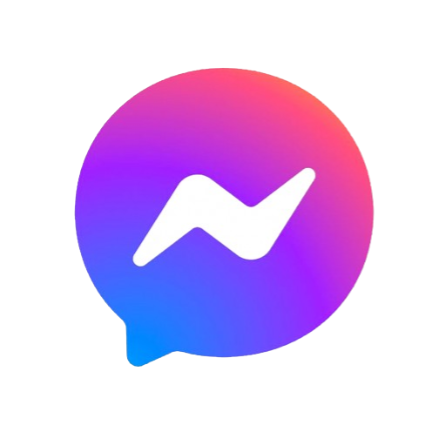
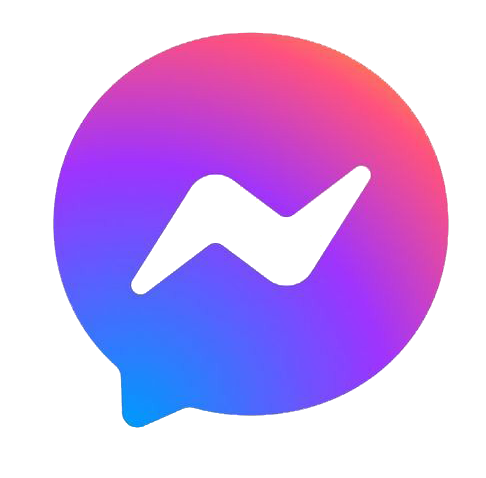
fixes

diff --git a/z-assets/css/z-assets.css b/z-assets/css/z-assets.css
@@ -1587,116 +1587,7 @@ header {
 /* Sticky button */
 
 
-.call-buton .cc-calto-action-ripple {
-	z-index: 99999;
-	position: fixed;
-	right: 1rem;
-	bottom: 8rem;
-	background: #ec8b00;
-	width: 4rem;
-	height: 4rem;
-	padding: 1rem;
-	border-radius: 100%;
-	-webkit-box-sizing: border-box;
-	box-sizing: border-box;
-	color: #ffffff;
-	-webkit-animation: cc-calto-action-ripple 0.6s linear infinite;
-	animation: cc-calto-action-ripple 0.6s linear infinite;
-	display: -webkit-box;
-	display: -webkit-flex;
-	display: -ms-flexbox;
-	display: flex;
-	justify-items: center;
-	-webkit-box-align: center;
-	-webkit-align-items: center;
-	-ms-flex-align: center;
-	align-items: center;
-	text-decoration: none; }
-	.call-buton .cc-calto-action-ripple i {
-	  -webkit-transition: 0.3s ease;
-	  transition: 0.3s ease;
-	  font-size: 2.2rem; }
-	.call-buton .cc-calto-action-ripple:hover i {
-	  -webkit-transform: rotate(135deg);
-	  transform: rotate(135deg); }
-  
-  @-webkit-keyframes cc-calto-action-ripple {
-	0% {
-	  -webkit-box-shadow: 0 4px 10px rgba(236, 139, 0, 0.2), 0 0 0 0 rgba(236, 139, 0, 0.2), 0 0 0 5px rgba(236, 139, 0, 0.2), 0 0 0 10px rgba(236, 139, 0, 0.2);
-	  box-shadow: 0 4px 10px rgba(236, 139, 0, 0.2), 0 0 0 0 rgba(236, 139, 0, 0.2), 0 0 0 5px rgba(236, 139, 0, 0.2), 0 0 0 10px rgba(236, 139, 0, 0.2); }
-	100% {
-	  -webkit-box-shadow: 0 4px 10px rgba(236, 139, 0, 0.2), 0 0 0 5px rgba(236, 139, 0, 0.2), 0 0 0 10px rgba(236, 139, 0, 0.2), 0 0 0 20px rgba(236, 139, 0, 0);
-	  box-shadow: 0 4px 10px rgba(236, 139, 0, 0.2), 0 0 0 5px rgba(236, 139, 0, 0.2), 0 0 0 10px rgba(236, 139, 0, 0.2), 0 0 0 20px rgba(236, 139, 0, 0); } }
-  
-  @keyframes cc-calto-action-ripple {
-	0% {
-	  -webkit-box-shadow: 0 4px 10px rgba(236, 139, 0, 0.2), 0 0 0 0 rgba(236, 139, 0, 0.2), 0 0 0 5px rgba(236, 139, 0, 0.2), 0 0 0 10px rgba(236, 139, 0, 0.2);
-	  box-shadow: 0 4px 10px rgba(236, 139, 0, 0.2), 0 0 0 0 rgba(236, 139, 0, 0.2), 0 0 0 5px rgba(236, 139, 0, 0.2), 0 0 0 10px rgba(236, 139, 0, 0.2); }
-	100% {
-	  -webkit-box-shadow: 0 4px 10px rgba(236, 139, 0, 0.2), 0 0 0 5px rgba(236, 139, 0, 0.2), 0 0 0 10px rgba(236, 139, 0, 0.2), 0 0 0 20px rgba(236, 139, 0, 0);
-	  box-shadow: 0 4px 10px rgba(236, 139, 0, 0.2), 0 0 0 5px rgba(236, 139, 0, 0.2), 0 0 0 10px rgba(236, 139, 0, 0.2), 0 0 0 20px rgba(236, 139, 0, 0); } }
 
-	span.num{
-		position: absolute;
-    color: #ec8b00;
-    left: -30%;
-    bottom: -50%;
-	}
-.call-buton .cc-calto-action-ripples {
-	z-index: 99999;
-	position: fixed;
-	right: 1rem;
-	bottom: 14rem;
-	background: blue;
-	width: 4rem;
-	height: 4rem;
-	padding: 1rem;
-	border-radius: 100%;
-	-webkit-box-sizing: border-box;
-	box-sizing: border-box;
-	color: #ffffff;
-	-webkit-animation: cc-calto-action-ripple 0.6s linear infinite;
-	animation: cc-calto-action-ripple 0.6s linear infinite;
-	display: -webkit-box;
-	display: -webkit-flex;
-	display: -ms-flexbox;
-	display: flex;
-	justify-items: center;
-	-webkit-box-align: center;
-	-webkit-align-items: center;
-	-ms-flex-align: center;
-	align-items: center;
-	text-decoration: none; }
-	.call-buton .cc-calto-action-ripples i {
-	  -webkit-transition: 0.3s ease;
-	  transition: 0.3s ease;
-	  font-size: 2.2rem; }
-	.call-buton .cc-calto-action-ripples:hover i {
-	  -webkit-transform: rotate(135deg);
-	  transform: rotate(135deg); }
-  
-  @-webkit-keyframes cc-calto-action-ripple {
-	0% {
-	  -webkit-box-shadow: 0 4px 10px rgba(236, 139, 0, 0.2), 0 0 0 0 rgba(236, 139, 0, 0.2), 0 0 0 5px rgba(236, 139, 0, 0.2), 0 0 0 10px rgba(236, 139, 0, 0.2);
-	  box-shadow: 0 4px 10px rgba(236, 139, 0, 0.2), 0 0 0 0 rgba(236, 139, 0, 0.2), 0 0 0 5px rgba(236, 139, 0, 0.2), 0 0 0 10px rgba(236, 139, 0, 0.2); }
-	100% {
-	  -webkit-box-shadow: 0 4px 10px rgba(236, 139, 0, 0.2), 0 0 0 5px rgba(236, 139, 0, 0.2), 0 0 0 10px rgba(236, 139, 0, 0.2), 0 0 0 20px rgba(236, 139, 0, 0);
-	  box-shadow: 0 4px 10px rgba(236, 139, 0, 0.2), 0 0 0 5px rgba(236, 139, 0, 0.2), 0 0 0 10px rgba(236, 139, 0, 0.2), 0 0 0 20px rgba(236, 139, 0, 0); } }
-  
-  @keyframes cc-calto-action-ripple {
-	0% {
-	  -webkit-box-shadow: 0 4px 10px rgba(236, 139, 0, 0.2), 0 0 0 0 rgba(236, 139, 0, 0.2), 0 0 0 5px rgba(236, 139, 0, 0.2), 0 0 0 10px rgba(236, 139, 0, 0.2);
-	  box-shadow: 0 4px 10px rgba(236, 139, 0, 0.2), 0 0 0 0 rgba(236, 139, 0, 0.2), 0 0 0 5px rgba(236, 139, 0, 0.2), 0 0 0 10px rgba(236, 139, 0, 0.2); }
-	100% {
-	  -webkit-box-shadow: 0 4px 10px rgba(236, 139, 0, 0.2), 0 0 0 5px rgba(236, 139, 0, 0.2), 0 0 0 10px rgba(236, 139, 0, 0.2), 0 0 0 20px rgba(236, 139, 0, 0);
-	  box-shadow: 0 4px 10px rgba(236, 139, 0, 0.2), 0 0 0 5px rgba(236, 139, 0, 0.2), 0 0 0 10px rgba(236, 139, 0, 0.2), 0 0 0 20px rgba(236, 139, 0, 0); } }
-
-	span.num{
-		position: absolute;
-    color: #ec8b00;
-    left: -30%;
-    bottom: -50%;
-	}
 
 
 

diff --git a/index.html b/index.html
@@ -380,25 +380,18 @@
     </div>
   </section>
 
-  <!-- <section class="call-buton">
-    <a class="cc-calto-action-ripple" href="tel:9999999"><i class="fa fa-phone"></i><span
-        class="num">Whatsapp</span>
-    </a>
-    <a class="cc-calto-action-ripples" href="tel:9999999"><i class="fa fa-phone"></i><span
-        class="num">telegram</span>
-    </a>
-  </section> -->
 
-  <ul class="sticky_contact" style="position: fixed; bottom: 20px ; right: 10px; list-style: none;display: none;"> 
+
+  <ul class="sticky_contact" style="position: fixed; bottom: 20px ; right: 10px; list-style: none;display: none;">
     <a href="https://t.me/Patriots_sweep">
 
-      <li style="margin-bottom: 15px;"><img src="images/telegram.png" alt=""  style="height: 100px; width: 100px; "></li>
+      <li style="margin-bottom: 15px;"><img src="images/telegram (1).png" alt=""  ></li>
     </a>
     <a href="">
-      <li><img src="images/whatasapp.png" alt=""  style="height: 100px; width: 100px;"></li>
+      <li><img src="images/whatasapp (1).png" alt="" ></li>
     </a>
     <a href="">
-      <li><img src="images/messenger.png" alt=""  style="height: 120px; width: 120px;"></li>
+      <li><img src="images/messenger (1).png" alt="" ></li>
     </a>
   </ul>
 
@@ -551,7 +544,7 @@
       })
     }
   </script>
-  
+
 
 
 
@@ -597,9 +590,9 @@
   <script src="z-assets/js/script.js"></script>
 
   <script>
-   setTimeout(() => {
+    setTimeout(() => {
       $('.sticky_contact').show();
-    }, 1000);
+    }, 3000);
   </script>
 
 </body>
